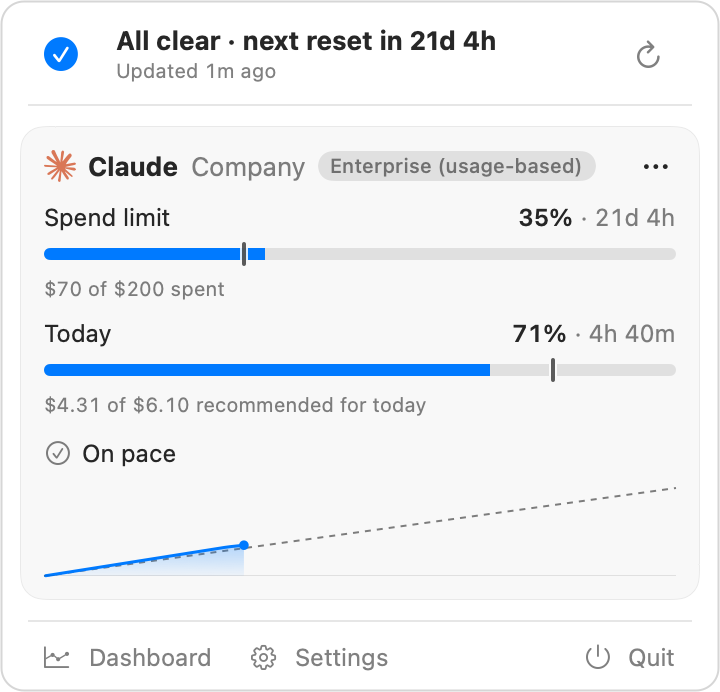
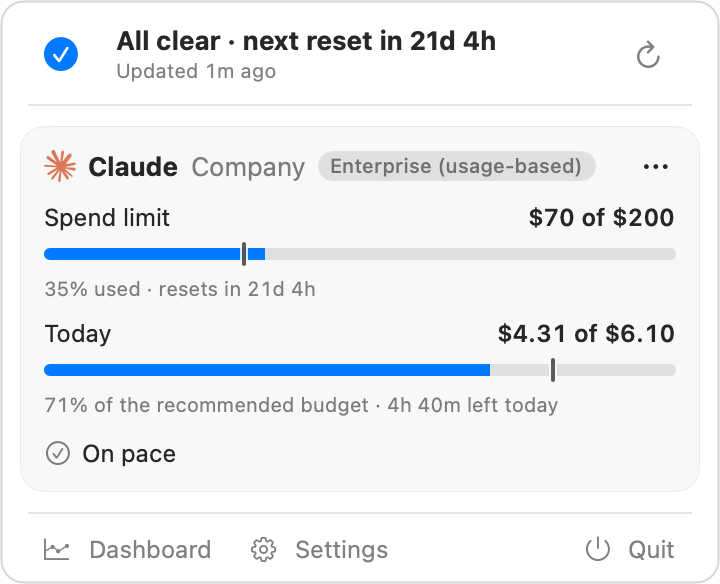
feat(popover): lead a spend limit's bars with money
A seat billed per use showed "35% · 21d 4h" in bold on its spend limit, so the reset countdown read like an amount, and the dollars sat in a grey line underneath. Its spend limit and Today bars now lead with the money, "$70 of $200" and "$4.31 of $6.10", and say the rest under the bar in words: "35% used · resets in 21d 4h", and "71% of the recommended budget · 4h 40m left today", or "$1.36 over the daily budget" once past it. The month chart under such a card is gone: the bar, its pace mark and the pace line already say what it drew, and the dashboard charts the spend. Plan limits keep their percent and countdown.

diff --git a/Sources/Tokenjar/Shared/Formatting.swift b/Sources/Tokenjar/Shared/Formatting.swift
@@ -60,24 +60,39 @@ enum Format {
         return "\(money(amount, currency: currency, fractionDigits: digits, locale: locale)) used of \(money(limit, currency: currency, fractionDigits: digits, locale: locale))"
     }
 
-    /// "$477 of $3,000 spent", with `moneyUsed`'s shared precision.
-    static func moneySpent(_ amount: Double, of limit: Double, currency: String = "USD", locale: Locale = .autoupdatingCurrent) -> String {
+    /// "$477 of $3,000", with `moneyUsed`'s shared precision.
+    static func moneyOf(_ amount: Double, of limit: Double, currency: String = "USD", locale: Locale = .autoupdatingCurrent) -> String {
         let digits = max(centsDigits(amount), centsDigits(limit))
-        return "\(money(amount, currency: currency, fractionDigits: digits, locale: locale)) of \(money(limit, currency: currency, fractionDigits: digits, locale: locale)) spent"
+        return "\(money(amount, currency: currency, fractionDigits: digits, locale: locale)) of \(money(limit, currency: currency, fractionDigits: digits, locale: locale))"
     }
 
-    /// "$79 of $133 recommended for today", "$175 of $133 daily budget · $42 over", with "· since 9:14 AM" when today
-    /// counts only from its first check. Whole units from a $100 budget up, where cents are noise; below it, as with a
-    /// $200 monthly limit, the cents carry the information.
-    static func dailySpend(_ day: DailySpend, locale: Locale = .autoupdatingCurrent, timeZone: TimeZone = .autoupdatingCurrent) -> String {
-        let digits = day.budget >= 100 ? 0 : 2
-        let whole = { (amount: Double) in money(amount, currency: day.currency, fractionDigits: digits, locale: locale) }
-        var text = "\(whole(day.spent)) of \(whole(day.budget)) " + (day.isRecommended ? "recommended for today" : "daily budget")
-        if day.isOver { text += " · \(whole(day.spent - day.budget)) over" }
+    /// "35% used · resets in 21d 4h", under a spend limit's bar.
+    static func spendLimitDetail(_ window: UsageWindow, now: Date) -> String {
+        let used = "\(percent(window.usedPercent)) used"
+        guard let countdown = countdown(to: window.resetsAt, now: now) else { return used }
+        return "\(used) · resets in \(countdown)"
+    }
+
+    /// "$4.31 of $6.10". Whole units from a $100 budget up, where cents are noise; below it, as with a $200 monthly
+    /// limit, the cents carry the information.
+    static func dailyAmounts(_ day: DailySpend, locale: Locale = .autoupdatingCurrent) -> String {
+        "\(dailyMoney(day.spent, day, locale)) of \(dailyMoney(day.budget, day, locale))"
+    }
+
+    /// "70% of the recommended budget · 4h 40m left today", or "$42 over the daily budget · …" past it, with
+    /// "since 9:14 AM" when today counts only from its first check.
+    static func dailyDetail(_ day: DailySpend, now: Date, locale: Locale = .autoupdatingCurrent, timeZone: TimeZone = .autoupdatingCurrent) -> String {
+        let budget = day.isRecommended ? "the recommended budget" : "the daily budget"
+        var parts = [day.isOver ? "\(dailyMoney(day.spent - day.budget, day, locale)) over \(budget)" : "\(percent(day.usedPercent)) of \(budget)"]
         if let from = day.countedFrom {
-            text += " · since " + from.formatted(Date.FormatStyle(date: .omitted, time: .shortened, locale: locale, timeZone: timeZone))
+            parts.append("since " + from.formatted(Date.FormatStyle(date: .omitted, time: .shortened, locale: locale, timeZone: timeZone)))
         }
-        return text
+        parts.append("\(duration(day.dayEnd.timeIntervalSince(now))) left today")
+        return parts.joined(separator: " · ")
+    }
+
+    private static func dailyMoney(_ amount: Double, _ day: DailySpend, _ locale: Locale) -> String {
+        money(amount, currency: day.currency, fractionDigits: day.budget >= 100 ? 0 : 2, locale: locale)
     }
 
     private static func centsDigits(_ amount: Double) -> Int {

diff --git a/Tests/TokenjarTests/Shared/FormattingTests.swift b/Tests/TokenjarTests/Shared/FormattingTests.swift
@@ -35,26 +35,35 @@ struct FormattingTests {
         #expect(Format.moneyUsed(20, of: 100, locale: us) == "$20 used of $100")
     }
 
-    @Test func aSpendLimitReadsAsSpentOfTheLimit() {
-        #expect(Format.moneySpent(477.15, of: 3000, locale: us) == "$477 of $3,000 spent")
-        #expect(Format.moneySpent(12.4, of: 50, locale: us) == "$12.40 of $50.00 spent")
+    /// A spend limit is money, so its amounts lead and the share and the reset go under the bar.
+    @Test func aSpendLimitLeadsWithItsAmounts() {
+        #expect(Format.moneyOf(477.15, of: 3000, locale: us) == "$477 of $3,000")
+        #expect(Format.moneyOf(12.4, of: 50, locale: us) == "$12.40 of $50.00")
+        let now = Date(timeIntervalSince1970: 1_791_660_000)
+        let limit = UsageWindow(id: UsageWindow.spendCapID, label: "Spend limit", usedPercent: 35.2, resetsAt: now.addingTimeInterval(21 * 86_400 + 4 * 3600))
+        #expect(Format.spendLimitDetail(limit, now: now) == "35% used · resets in 21d 4h")
+        #expect(Format.spendLimitDetail(UsageWindow(id: UsageWindow.spendCapID, label: "Spend limit", usedPercent: 35.2), now: now) == "35% used")
     }
 
-    @Test func todaysSpendNamesItsBudget() {
+    /// The detail line says what kind of budget it is and how far through the day, so no duration reads as an amount.
+    @Test func todayLeadsWithItsAmountsAndSaysTheRestUnderTheBar() {
         let utc = TimeZone(identifier: "UTC")!
-        func line(_ spent: Double, _ budget: Double, recommended: Bool = false, from: Date? = nil) -> String {
-            let day = DailySpend(
-                spent: spent, budget: budget, isRecommended: recommended, currency: "USD", dayStart: .distantPast, dayEnd: .distantFuture, countedFrom: from
+        let now = Date(timeIntervalSince1970: 1_791_660_000)
+        func day(_ spent: Double, _ budget: Double, recommended: Bool = false, from: Date? = nil) -> DailySpend {
+            DailySpend(
+                spent: spent, budget: budget, isRecommended: recommended, currency: "USD", dayStart: now.addingTimeInterval(-19 * 3600),
+                dayEnd: now.addingTimeInterval(4 * 3600 + 40 * 60), countedFrom: from
             )
-            return Format.dailySpend(day, locale: us, timeZone: utc)
         }
-        #expect(line(79, 100) == "$79 of $100 daily budget")
-        #expect(line(79.4, 133.2, recommended: true) == "$79 of $133 recommended for today")
-        #expect(line(175, 133) == "$175 of $133 daily budget · $42 over")
+        func detail(_ spend: DailySpend) -> String { Format.dailyDetail(spend, now: now, locale: us, timeZone: utc) }
+        #expect(Format.dailyAmounts(day(79, 133), locale: us) == "$79 of $133")
         // Under $100 a day the cents carry the information, as with a $200 monthly limit.
-        #expect(line(4.27, 6.14, recommended: true) == "$4.27 of $6.14 recommended for today")
-        #expect(line(7.5, 6.14) == "$7.50 of $6.14 daily budget · $1.36 over")
-        #expect(line(12, 100, from: DateParsing.iso8601("2026-10-13T09:14:00Z")) == "$12 of $100 daily budget · since 9:14\u{202F}AM")
+        #expect(Format.dailyAmounts(day(4.27, 6.14, recommended: true), locale: us) == "$4.27 of $6.14")
+        #expect(detail(day(4.27, 6.14, recommended: true)) == "70% of the recommended budget · 4h 40m left today")
+        #expect(detail(day(79, 100)) == "79% of the daily budget · 4h 40m left today")
+        #expect(detail(day(175, 133)) == "$42 over the daily budget · 4h 40m left today")
+        #expect(detail(day(7.5, 6.14)) == "$1.36 over the daily budget · 4h 40m left today")
+        #expect(detail(day(12, 100, from: DateParsing.iso8601("2026-10-13T09:14:00Z"))) == "12% of the daily budget · since 9:14\u{202F}AM · 4h 40m left today")
     }
 
     /// Rounding must never call a window empty while it has use, or full while it has room.

diff --git a/Sources/Tokenjar/Popover/AccountCard.swift b/Sources/Tokenjar/Popover/AccountCard.swift
@@ -242,15 +242,17 @@ private struct SnapshotBody: View {
                             pace: Pace.compute(window, now: now),
                             now: now,
                             isDimmed: isStale,
-                            caption: window.id == UsageWindow.spendCapID ? spend.flatMap { line in
-                                line.limit.map { Format.moneySpent(line.amount, of: $0, currency: line.currency) }
-                            } : nil
+                            amounts: window.id == UsageWindow.spendCapID ? spend.flatMap { line in
+                                line.limit.map { Format.moneyOf(line.amount, of: $0, currency: line.currency) }
+                            } : nil,
+                            caption: window.id == UsageWindow.spendCapID && spend != nil ? Format.spendLimitDetail(window, now: now) : nil
                         )
                     }
                     if let daily = model.dailySpend(for: account, snapshot: snapshot, now: now) {
                         WindowRow(
                             window: daily.window, severity: Severity.of(daily.window, config: model.config.menuBar, now: now),
-                            pace: Pace.compute(daily.window, now: now), now: now, isDimmed: isStale, caption: Format.dailySpend(daily)
+                            pace: Pace.compute(daily.window, now: now), now: now, isDimmed: isStale,
+                            amounts: Format.dailyAmounts(daily), caption: Format.dailyDetail(daily, now: now)
                         )
                     }
                 }
@@ -295,9 +297,10 @@ private struct SnapshotBody: View {
 
     @ViewBuilder
     private func chart(now: Date, verdictWindowID: String?, namesWindow: Bool) -> some View {
-        // A window past its reset would chart the cycle that just ended.
+        // A window past its reset would chart the cycle that just ended. A spend limit's bar, pace mark and verdict
+        // already say what its month line would, and the dashboard charts its spend.
         let live = snapshot.windows.filter { !$0.hasReset(now: now) }
-        if let window = BurnUpChart.chartWindow(in: live, verdictWindowID: verdictWindowID), let start = BurnUpChart.cycleStart(of: window) {
+        if snapshot.spendLimitMoney == nil, let window = BurnUpChart.chartWindow(in: live, verdictWindowID: verdictWindowID), let start = BurnUpChart.cycleStart(of: window) {
             let samples = burnUps.samples(accountID: account.id, windowID: window.id, start: start, end: window.resetsAt ?? now, revision: model.historyRevision) {
                 model.samples(accountID: account.id, windowID: window.id, since: start)
             }

diff --git a/Sources/Tokenjar/Popover/WindowRow.swift b/Sources/Tokenjar/Popover/WindowRow.swift
@@ -7,7 +7,9 @@ struct WindowRow: View {
     var pace: Pace?
     var now: Date
     var isDimmed = false
-    /// A line under the bar, such as the money a spend limit measures.
+    /// Replaces the used % and countdown on the right, for a bar measured in money: "$70 of $200".
+    var amounts: String? = nil
+    /// A line under the bar; with `amounts`, where the share and the time go.
     var caption: String? = nil
 
     var body: some View {
@@ -24,6 +26,10 @@ struct WindowRow: View {
                 } else if hasReset {
                     Text("reset, updating")
                         .foregroundStyle(.secondary)
+                } else if let amounts {
+                    Text(amounts)
+                        .fontWeight(.semibold)
+                        .monospacedDigit()
                 } else {
                     HStack(spacing: 0) {
                         Text(Format.percent(window.usedPercent))
@@ -69,6 +75,7 @@ struct WindowRow: View {
         guard !window.notStarted else { return "not started" }
         if window.hasReset(now: now) { return "reset, updating" }
         let countdown = window.resetsAt.map { ", resets in \(Format.spokenDuration($0.timeIntervalSince(now)))" } ?? ""
+        if let amounts { return [amounts, caption].compactMap { $0 }.joined(separator: ", ") }
         return "\(Format.percent(window.usedPercent)) used\(countdown)" + (caption.map { ", \($0)" } ?? "")
     }
 }

diff --git a/README.md b/README.md
@@ -41,12 +41,12 @@ The menu bar item shows the used percent of the account with the least room left
 
 Clicking it opens the popover shown at the top. Each limit window gets a bar with a tick where an even pace would be, and the time until it resets. The line under the bars says how you are tracking, such as "Under pace -6%" or "Runs out ~1d 17h before reset". A failed check says what went wrong and offers the fix. When a limit is full, the header also names the account with the most room left, such as "Codex has room: 5-hour 2% used". When the Mac is offline or no provider answers, the header says so once and the cards keep their last numbers with their age. Command-R refreshes, and a click outside the popover or Escape closes it. The cards follow the order of the accounts in Settings; Settings > General can group them by provider or put the account with the least room left on top.
 
-An Enterprise seat billed per use has one limit, the money it may spend this month. Its card shows that spend limit as a bar with the amount under it and the time until it resets on the 1st, at midnight UTC. Claude's `/usage` does not report that date, so it comes from the calendar month. Turn on Daily budget on the account's page in Settings to add a Today bar: today's spend against what you can spend per day and still end the month under the limit. Type an amount to use a fixed budget instead. The bar keeps counting past 100% to show how far over today is, and you get one notification a day when it goes over. Claude reports only the month's total, so Tokenjar works out today from its own checks: the total now minus the total at its last check before midnight.
+An Enterprise seat billed per use has one limit, the money it may spend this month. Its card shows that spend limit in money, such as "$70 of $200", with the share used and the time until it resets on the 1st, at midnight UTC, under the bar. Claude's `/usage` does not report that date, so it comes from the calendar month. Turn on Daily budget on the account's page in Settings to add a Today bar: today's spend against what you can spend per day and still end the month under the limit. Type an amount to use a fixed budget instead. The bar keeps counting past 100% to show how far over today is, and you get one notification a day when it goes over. Claude reports only the month's total, so Tokenjar works out today from its own checks: the total now minus the total at its last check before midnight.
 
 <p align="center">
   <picture>
     <source media="(prefers-color-scheme: dark)" srcset="docs/images/popover-spend-limit-dark.png">
-    <img src="docs/images/popover-spend-limit-light.png" width="360" alt="A card for a Claude seat billed per use: a spend limit bar at 35% with $70 of $200 spent and 21 days to its reset, and a Today bar at 71% with $4.31 of a recommended $6.10 for today">
+    <img src="docs/images/popover-spend-limit-light.png" width="360" alt="A card for a Claude seat billed per use: a spend limit of $70 of $200, 35% used and resetting in 21 days, and a Today bar of $4.31 of $6.10, 71% of the recommended budget with 4 hours 40 minutes left today">
   </picture>
 </p>
 
